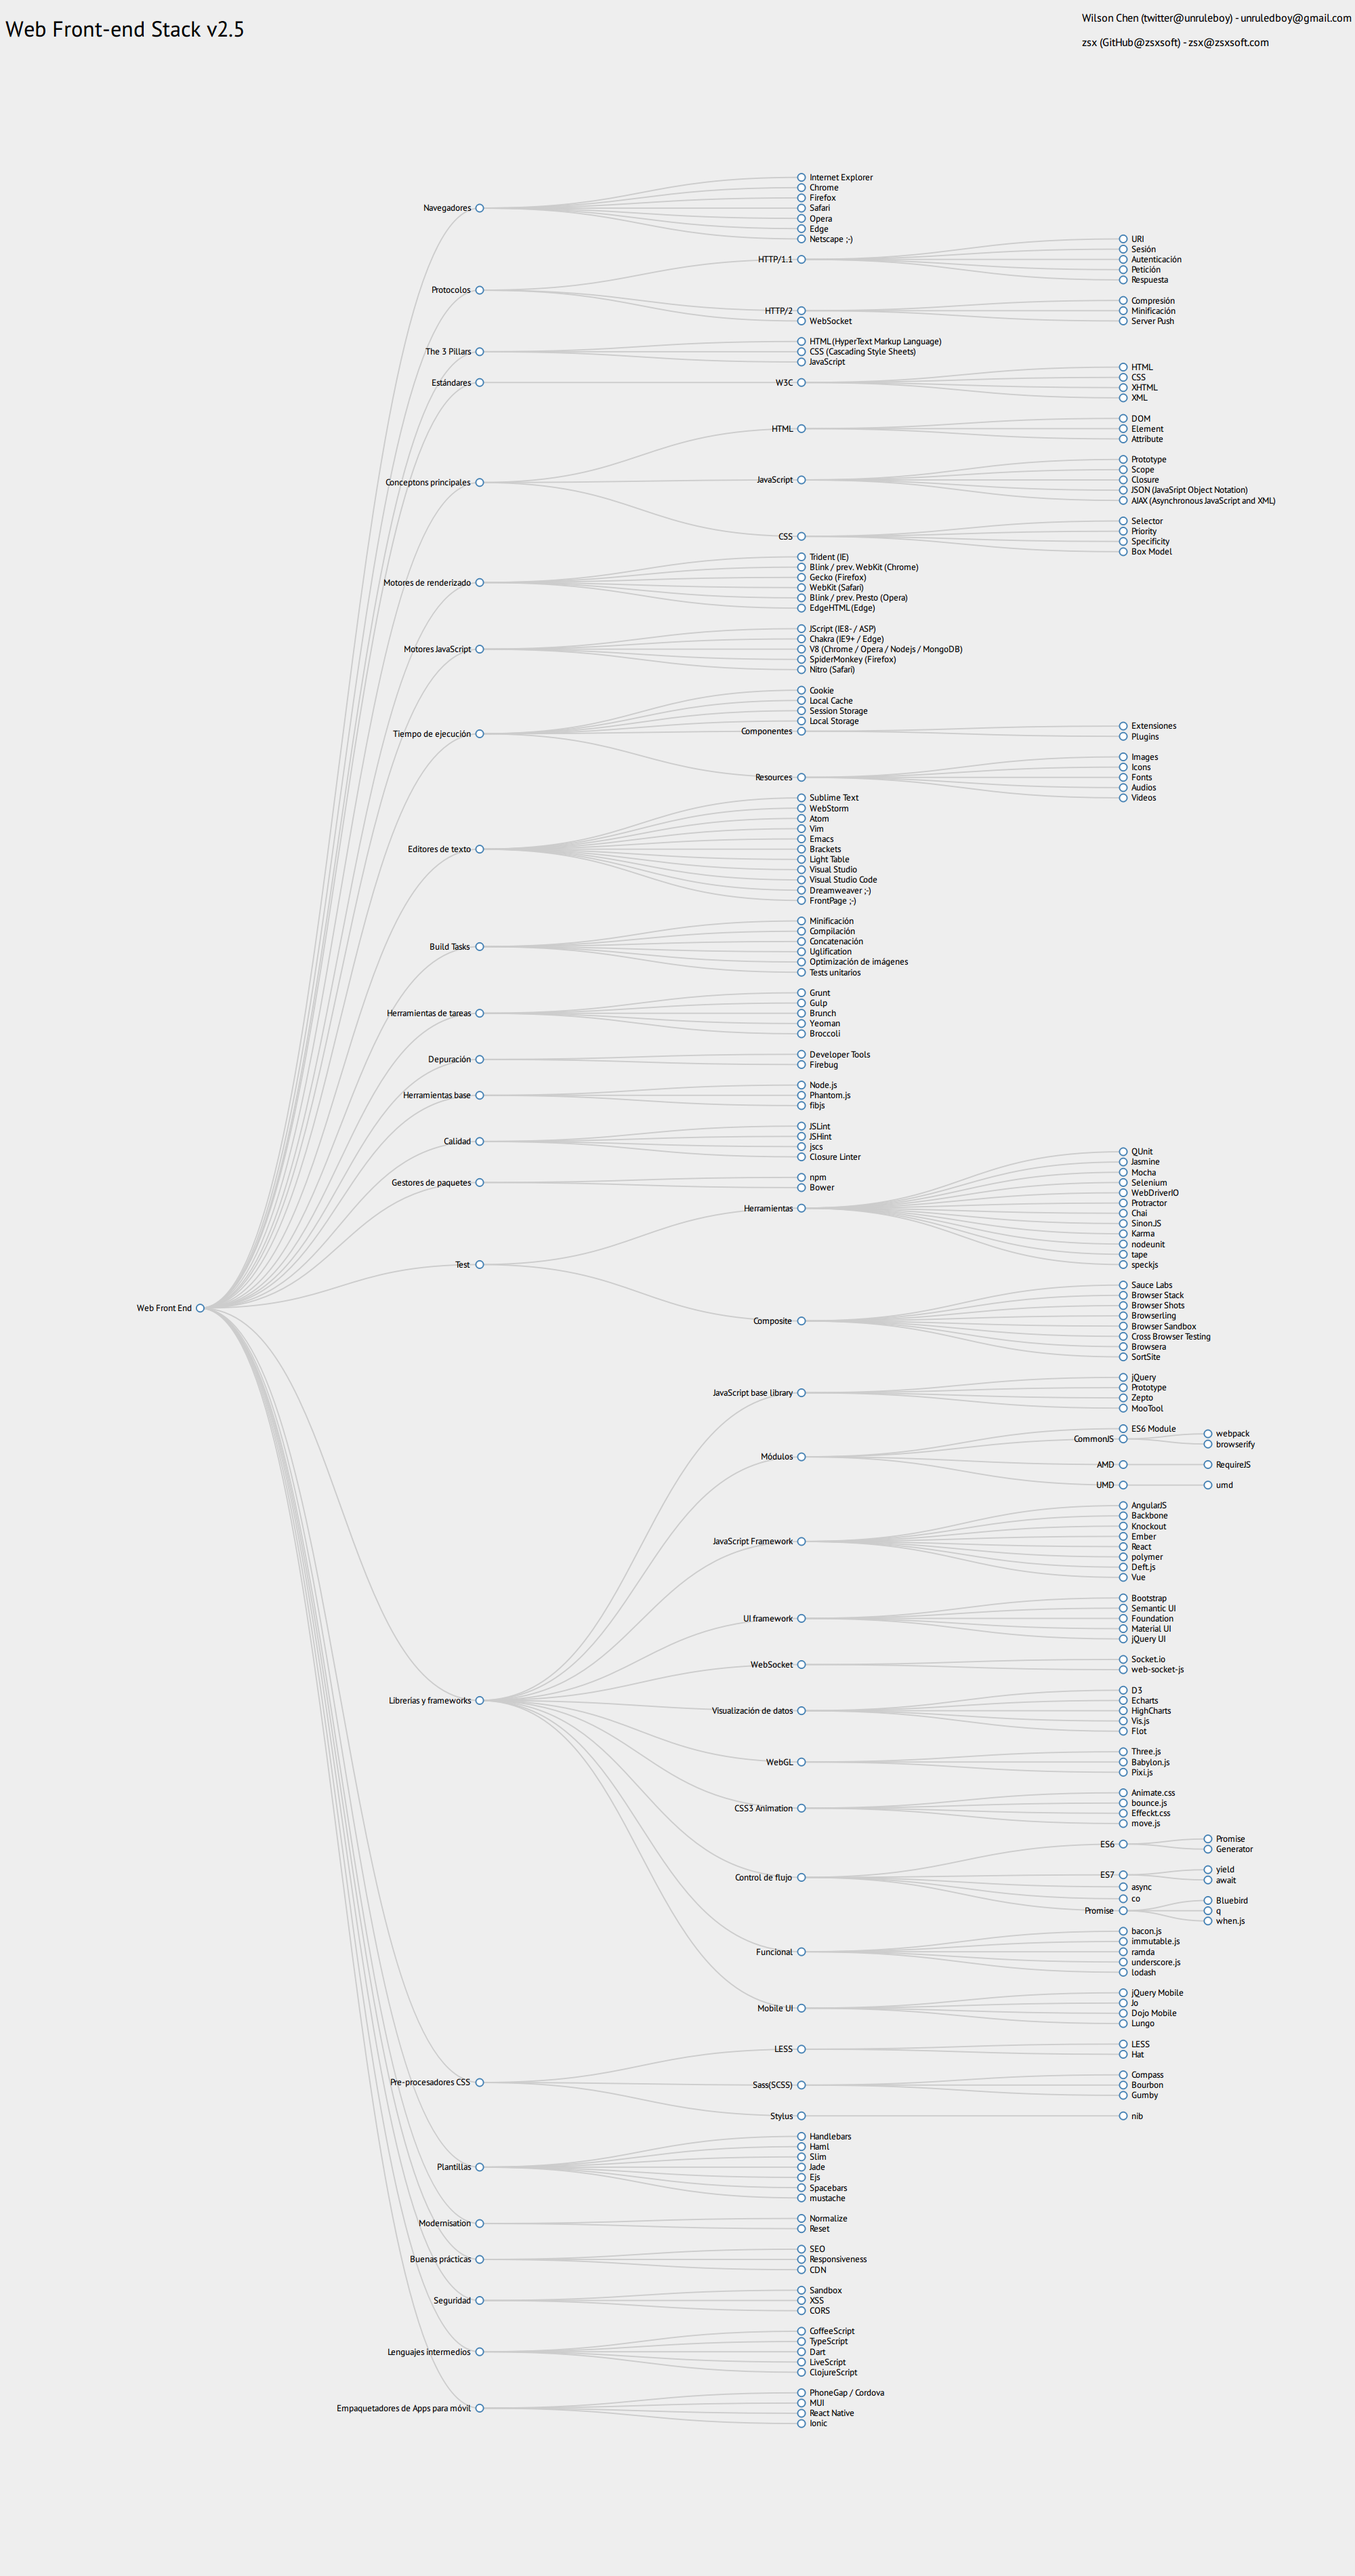
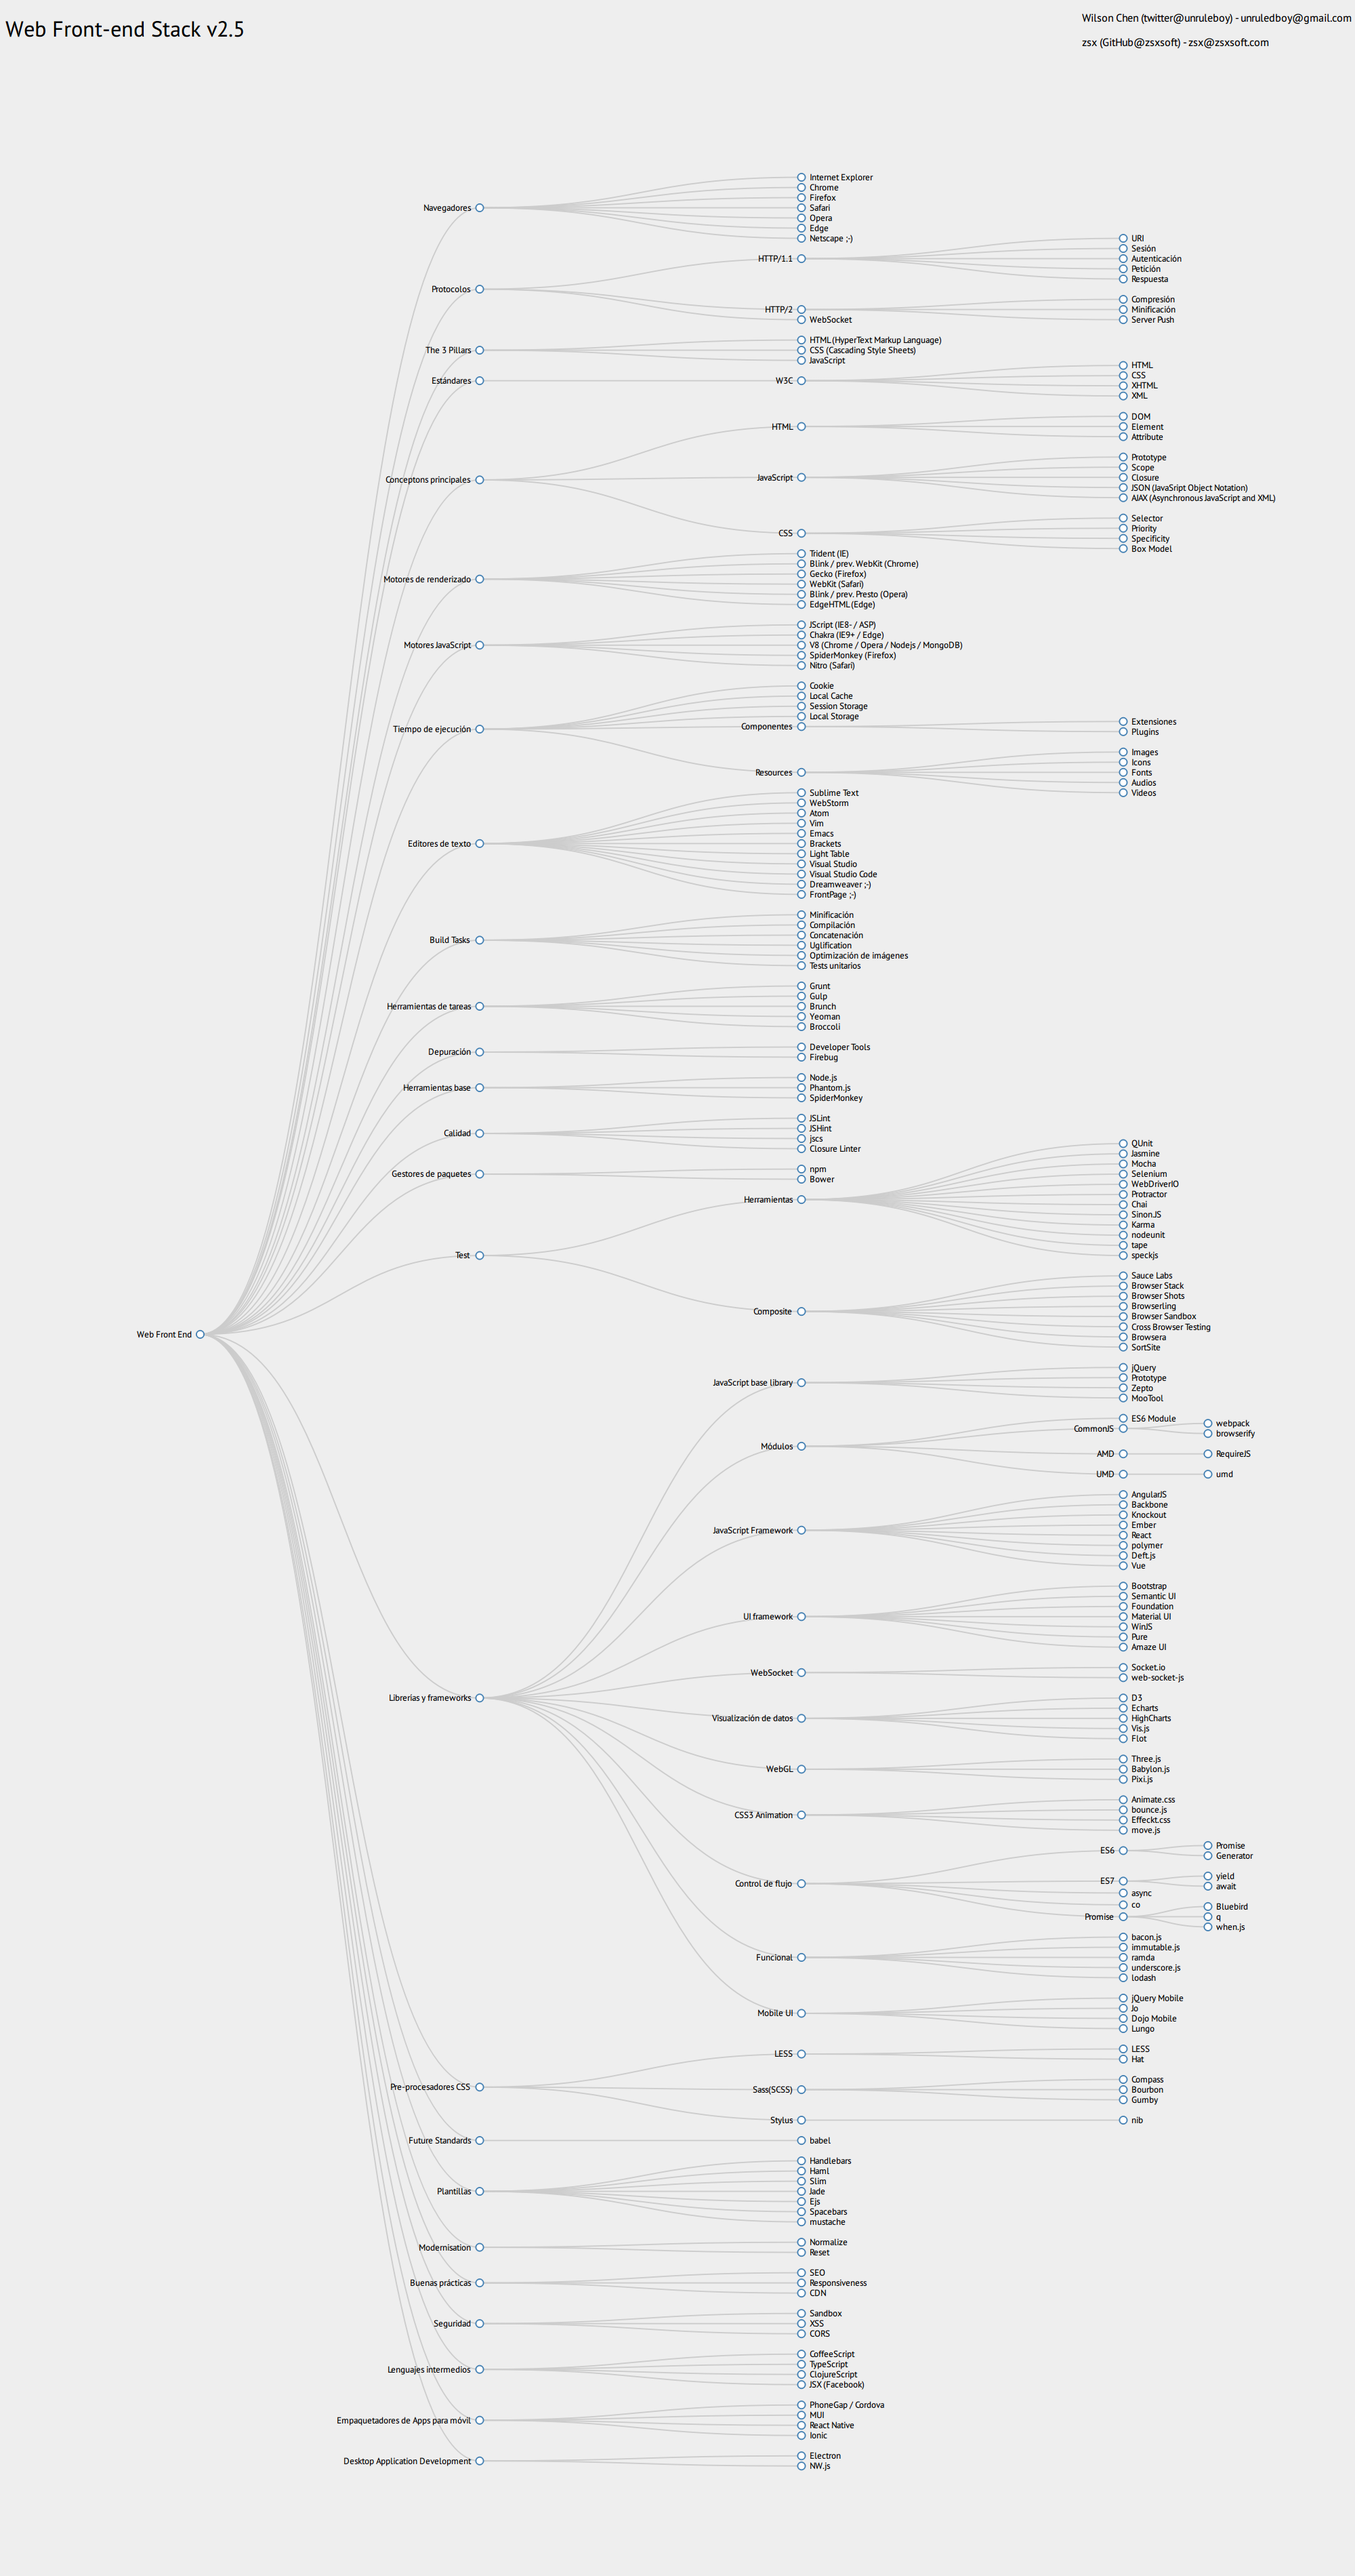
Some news

diff --git a/README.md b/README.md
@@ -172,7 +172,7 @@ https://rawgit.com/unruledboy/WebFrontEndStack/master/ux/WebFrontEndStack.htm
 	- Base Tools
 		- [Node.js](https://nodejs.org/) [[GitHub]](https://github.com/joyent/node/)
 		- [Phantom.js](http://phantomjs.org/) [[GitHub]](https://github.com/ariya/phantomjs/)
-		- [fibjs](http://fibjs.org/en/) [[GitHub]](https://github.com/xicilion/fibjs)
+		- [SpiderMonkey](https://developer.mozilla.org/en-US/docs/Mozilla/Projects/SpiderMonkey)
 	- Quality
 		- [JSLint](http://www.jslint.com/) [[GitHub]](https://github.com/douglascrockford/JSLint/)
 		- [JSHint](http://jshint.com/) [[GitHub]](https://github.com/jshint/jshint/)
@@ -230,10 +230,12 @@ https://rawgit.com/unruledboy/WebFrontEndStack/master/ux/WebFrontEndStack.htm
 			- [Vue](http://vuejs.org/) [[GitHub]](https://github.com/yyx990803/vue/)
 		- UI framework
 			- [Bootstrap](http://getbootstrap.com/) [[GitHub]](https://github.com/twbs/bootstrap/)
-			- [Semantic UI ](http://semantic-ui.com/) [[GitHub]](https://github.com/Semantic-Org/Semantic-UI/)
+			- [Semantic UI](http://semantic-ui.com/) [[GitHub]](https://github.com/Semantic-Org/Semantic-UI/)
 			- [Foundation](http://foundation.zurb.com/) [[GitHub]](https://github.com/zurb/foundation/)
 			- [Material UI](http://material-ui.com/) [[GitHub]](https://github.com/callemall/material-ui/)
-			- [jQuery UI](http://jqueryui.com/) [[GitHub]](https://github.com/jquery/jquery-ui/)
+			- [WinJS](https://dev.windows.com/en-us/develop/winjs) [[GitHub]](https://github.com/winjs/winjs)
+			- [Pure](http://purecss.io/) [[GitHub]](https://github.com/yahoo/pure/)
+			- [Amaze UI](http://amazeui.org/) [[GitHub]](https://github.com/allmobilize/amazeui)
 		- WebSocket
 			- [Socket.io](http://socket.io/) [[GitHub]](https://github.com/Automattic/socket.io/)
 			- web-socket-js [[GitHub]](https://github.com/gimite/web-socket-js/)
@@ -286,6 +288,8 @@ https://rawgit.com/unruledboy/WebFrontEndStack/master/ux/WebFrontEndStack.htm
 			- [Gumby](http://www.gumbyframework.com/) [[GitHub]](https://github.com/GumbyFramework/Gumby/)
 		- Stylus
 			- nib [[GitHub]](https://github.com/tj/nib/)
+	- Future Standards
+		- [babel](https://babeljs.io/) [[GitHub]](https://github.com/babel/babel)
 	- Template
 		- [Handlebars](http://handlebarsjs.com/) [[GitHub]](https://github.com/wycats/handlebars.js/)
 		- [Haml](http://haml.info/) [[GitHub]](https://github.com/haml/haml/)
@@ -308,13 +312,15 @@ https://rawgit.com/unruledboy/WebFrontEndStack/master/ux/WebFrontEndStack.htm
 	- Intermediate Languages
 		- [CoffeeScript](http://coffeescript.org/) [[GitHub]](https://github.com/jashkenas/coffeescript/)
 		- [TypeScript](http://www.typescriptlang.org/) [[GitHub]](https://github.com/Microsoft/TypeScript/)
-		- [Dart](https://www.dartlang.org/) [[GitHub]](https://github.com/dart-lang/sdk/)
-		- [LiveScript](http://livescript.net/) [[GitHub]](https://github.com/gkz/LiveScript/)
 		- ClojureScript [[GitHub]](https://github.com/clojure/clojurescript/)
-	- Mobile App Builders
+		- [JSX (Facebook)](http://facebook.github.io/react/docs/jsx-in-depth.html)
+	- Mobile Application Development
 		- [PhoneGap / Cordova](https://cordova.apache.org/) [[GitHub]](https://github.com/apache/cordova-android/)
 		- [MUI](http://dev.dcloud.net.cn/mui/) [[GitHub]](https://github.com/dcloudio/mui/)
 		- [React Native](https://facebook.github.io/react-native/) [[GitHub]](https://github.com/facebook/react-native/)
 		- [Ionic](http://ionicframework.com/) [[GitHub]](https://github.com/driftyco/ionic/)
+	- Desktop Application Development
+		- [Electron](http://electron.atom.io/) [[GitHub]](https://github.com/atom/electron)
+		- [NW.js](http://nwjs.io/) [[GitHub]](https://github.com/nwjs/nw.js)
 
 <!--BUILD_END-->

diff --git a/README.es-es.md b/README.es-es.md
@@ -181,7 +181,7 @@ https://rawgit.com/unruledboy/WebFrontEndStack/master/ux/WebFrontEndStack.htm
 	- Herramientas base
 		- [Node.js](https://nodejs.org/) [[GitHub]](https://github.com/joyent/node/)
 		- [Phantom.js](http://phantomjs.org/) [[GitHub]](https://github.com/ariya/phantomjs/)
-		- [fibjs](http://fibjs.org/en/) [[GitHub]](https://github.com/xicilion/fibjs)
+		- [SpiderMonkey](https://developer.mozilla.org/en-US/docs/Mozilla/Projects/SpiderMonkey)
 	- Calidad
 		- [JSLint](http://www.jslint.com/) [[GitHub]](https://github.com/douglascrockford/JSLint/)
 		- [JSHint](http://jshint.com/) [[GitHub]](https://github.com/jshint/jshint/)
@@ -239,10 +239,12 @@ https://rawgit.com/unruledboy/WebFrontEndStack/master/ux/WebFrontEndStack.htm
 			- [Vue](http://vuejs.org/) [[GitHub]](https://github.com/yyx990803/vue/)
 		- UI framework
 			- [Bootstrap](http://getbootstrap.com/) [[GitHub]](https://github.com/twbs/bootstrap/)
-			- [Semantic UI ](http://semantic-ui.com/) [[GitHub]](https://github.com/Semantic-Org/Semantic-UI/)
+			- [Semantic UI](http://semantic-ui.com/) [[GitHub]](https://github.com/Semantic-Org/Semantic-UI/)
 			- [Foundation](http://foundation.zurb.com/) [[GitHub]](https://github.com/zurb/foundation/)
 			- [Material UI](http://material-ui.com/) [[GitHub]](https://github.com/callemall/material-ui/)
-			- [jQuery UI](http://jqueryui.com/) [[GitHub]](https://github.com/jquery/jquery-ui/)
+			- [WinJS](https://dev.windows.com/en-us/develop/winjs) [[GitHub]](https://github.com/winjs/winjs)
+			- [Pure](http://purecss.io/) [[GitHub]](https://github.com/yahoo/pure/)
+			- [Amaze UI](http://amazeui.org/) [[GitHub]](https://github.com/allmobilize/amazeui)
 		- WebSocket
 			- [Socket.io](http://socket.io/) [[GitHub]](https://github.com/Automattic/socket.io/)
 			- web-socket-js [[GitHub]](https://github.com/gimite/web-socket-js/)
@@ -295,6 +297,8 @@ https://rawgit.com/unruledboy/WebFrontEndStack/master/ux/WebFrontEndStack.htm
 			- [Gumby](http://www.gumbyframework.com/) [[GitHub]](https://github.com/GumbyFramework/Gumby/)
 		- Stylus
 			- nib [[GitHub]](https://github.com/tj/nib/)
+	- Future Standards
+		- [babel](https://babeljs.io/) [[GitHub]](https://github.com/babel/babel)
 	- Plantillas
 		- [Handlebars](http://handlebarsjs.com/) [[GitHub]](https://github.com/wycats/handlebars.js/)
 		- [Haml](http://haml.info/) [[GitHub]](https://github.com/haml/haml/)
@@ -317,13 +321,15 @@ https://rawgit.com/unruledboy/WebFrontEndStack/master/ux/WebFrontEndStack.htm
 	- Lenguajes intermedios
 		- [CoffeeScript](http://coffeescript.org/) [[GitHub]](https://github.com/jashkenas/coffeescript/)
 		- [TypeScript](http://www.typescriptlang.org/) [[GitHub]](https://github.com/Microsoft/TypeScript/)
-		- [Dart](https://www.dartlang.org/) [[GitHub]](https://github.com/dart-lang/sdk/)
-		- [LiveScript](http://livescript.net/) [[GitHub]](https://github.com/gkz/LiveScript/)
 		- ClojureScript [[GitHub]](https://github.com/clojure/clojurescript/)
+		- [JSX (Facebook)](http://facebook.github.io/react/docs/jsx-in-depth.html)
 	- Empaquetadores de Apps para móvil
 		- [PhoneGap / Cordova](https://cordova.apache.org/) [[GitHub]](https://github.com/apache/cordova-android/)
 		- [MUI](http://dev.dcloud.net.cn/mui/) [[GitHub]](https://github.com/dcloudio/mui/)
 		- [React Native](https://facebook.github.io/react-native/) [[GitHub]](https://github.com/facebook/react-native/)
 		- [Ionic](http://ionicframework.com/) [[GitHub]](https://github.com/driftyco/ionic/)
+	- Desktop Application Development
+		- [Electron](http://electron.atom.io/) [[GitHub]](https://github.com/atom/electron)
+		- [NW.js](http://nwjs.io/) [[GitHub]](https://github.com/nwjs/nw.js)
 
 <!--BUILD_END-->

diff --git a/README.zh-cn.md b/README.zh-cn.md
@@ -178,7 +178,7 @@ https://rawgit.com/unruledboy/WebFrontEndStack/master/ux/WebFrontEndStack.htm?lo
 	- 基础工具
 		- [Node.js](https://nodejs.org/) [[GitHub]](https://github.com/joyent/node/)
 		- [Phantom.js](http://phantomjs.org/) [[GitHub]](https://github.com/ariya/phantomjs/)
-		- [fibjs](http://fibjs.org/en/) [[GitHub]](https://github.com/xicilion/fibjs)
+		- [SpiderMonkey](https://developer.mozilla.org/en-US/docs/Mozilla/Projects/SpiderMonkey)
 	- 质量控制
 		- [JSLint](http://www.jslint.com/) [[GitHub]](https://github.com/douglascrockford/JSLint/)
 		- [JSHint](http://jshint.com/) [[GitHub]](https://github.com/jshint/jshint/)
@@ -236,10 +236,12 @@ https://rawgit.com/unruledboy/WebFrontEndStack/master/ux/WebFrontEndStack.htm?lo
 			- [Vue](http://vuejs.org/) [[GitHub]](https://github.com/yyx990803/vue/)
 		- UI框架
 			- [Bootstrap](http://getbootstrap.com/) [[GitHub]](https://github.com/twbs/bootstrap/)
-			- [Semantic UI ](http://semantic-ui.com/) [[GitHub]](https://github.com/Semantic-Org/Semantic-UI/)
+			- [Semantic UI](http://semantic-ui.com/) [[GitHub]](https://github.com/Semantic-Org/Semantic-UI/)
 			- [Foundation](http://foundation.zurb.com/) [[GitHub]](https://github.com/zurb/foundation/)
 			- [Material UI](http://material-ui.com/) [[GitHub]](https://github.com/callemall/material-ui/)
-			- [jQuery UI](http://jqueryui.com/) [[GitHub]](https://github.com/jquery/jquery-ui/)
+			- [WinJS](https://dev.windows.com/en-us/develop/winjs) [[GitHub]](https://github.com/winjs/winjs)
+			- [Pure](http://purecss.io/) [[GitHub]](https://github.com/yahoo/pure/)
+			- [Amaze UI](http://amazeui.org/) [[GitHub]](https://github.com/allmobilize/amazeui)
 		- WebSocket
 			- [Socket.io](http://socket.io/) [[GitHub]](https://github.com/Automattic/socket.io/)
 			- web-socket-js [[GitHub]](https://github.com/gimite/web-socket-js/)
@@ -292,6 +294,8 @@ https://rawgit.com/unruledboy/WebFrontEndStack/master/ux/WebFrontEndStack.htm?lo
 			- [Gumby](http://www.gumbyframework.com/) [[GitHub]](https://github.com/GumbyFramework/Gumby/)
 		- Stylus
 			- nib [[GitHub]](https://github.com/tj/nib/)
+	- 未来标准
+		- [babel](https://babeljs.io/) [[GitHub]](https://github.com/babel/babel)
 	- 模板引擎
 		- [Handlebars](http://handlebarsjs.com/) [[GitHub]](https://github.com/wycats/handlebars.js/)
 		- [Haml](http://haml.info/) [[GitHub]](https://github.com/haml/haml/)
@@ -314,13 +318,15 @@ https://rawgit.com/unruledboy/WebFrontEndStack/master/ux/WebFrontEndStack.htm?lo
 	- 中间语言
 		- [CoffeeScript](http://coffeescript.org/) [[GitHub]](https://github.com/jashkenas/coffeescript/)
 		- [TypeScript](http://www.typescriptlang.org/) [[GitHub]](https://github.com/Microsoft/TypeScript/)
-		- [Dart](https://www.dartlang.org/) [[GitHub]](https://github.com/dart-lang/sdk/)
-		- [LiveScript](http://livescript.net/) [[GitHub]](https://github.com/gkz/LiveScript/)
 		- ClojureScript [[GitHub]](https://github.com/clojure/clojurescript/)
+		- [JSX (Facebook)](http://facebook.github.io/react/docs/jsx-in-depth.html)
 	- 移动应用开发
 		- [PhoneGap / Cordova](https://cordova.apache.org/) [[GitHub]](https://github.com/apache/cordova-android/)
 		- [MUI](http://dev.dcloud.net.cn/mui/) [[GitHub]](https://github.com/dcloudio/mui/)
 		- [React Native](https://facebook.github.io/react-native/) [[GitHub]](https://github.com/facebook/react-native/)
 		- [Ionic](http://ionicframework.com/) [[GitHub]](https://github.com/driftyco/ionic/)
+	- 桌面应用开发
+		- [Electron](http://electron.atom.io/) [[GitHub]](https://github.com/atom/electron)
+		- [NW.js](http://nwjs.io/) [[GitHub]](https://github.com/nwjs/nw.js)
 
 <!--BUILD_END-->
